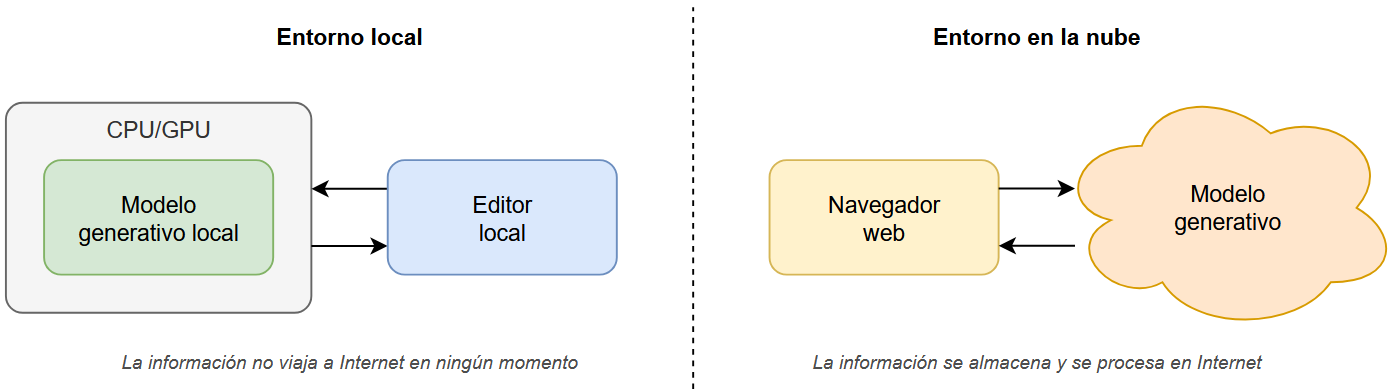
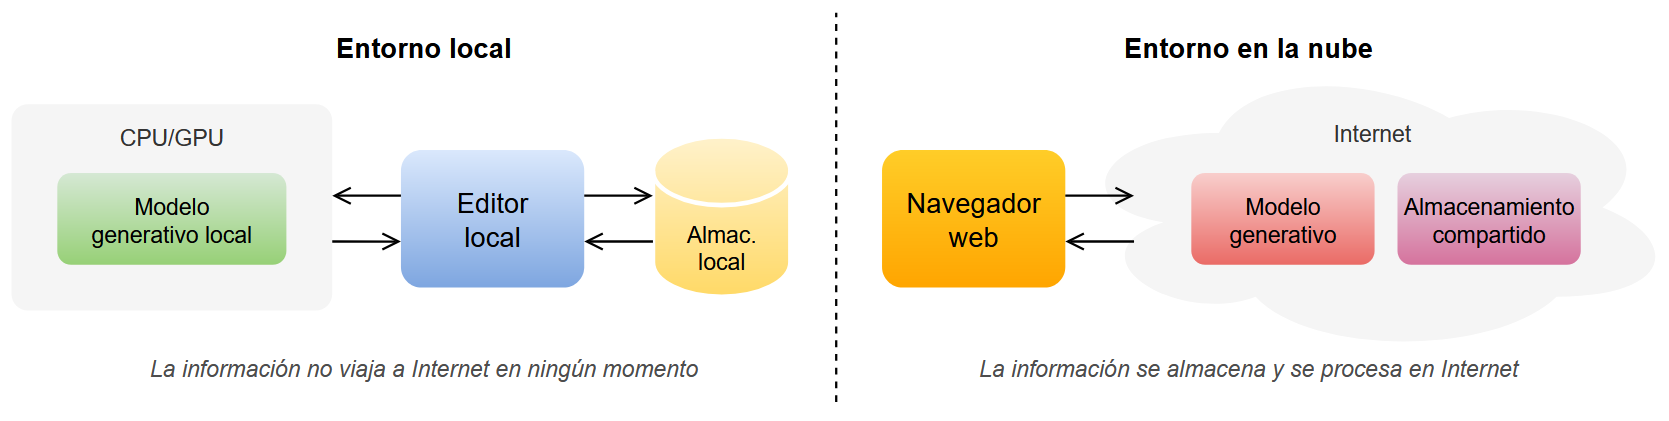
wiki

diff --git a/Wiki/x. Anexos.md b/Wiki/x. Anexos.md
@@ -2,9 +2,15 @@
 
 #### **Anexo I**: Documentación técnica de la solución
 
+![](./Pictures/Pasted-image-20250704163423.png)
+![](./Pictures/Pasted-image-20250704163453.png)
+![](./Pictures/Pasted-image-20250704163507.png)
+
 - Disponible en: https://gitlab.etsisi.upm.es/bj0666/powerpad/-/blob/main/Attachments/Anexo%20I%20-%20Documentaci%C3%B3n%20t%C3%A9cnica%20de%20la%20soluci%C3%B3n.pdf
 
 #### **Anexo II**: Documentación generada por código
+
+![](./Pictures/Pasted-image-20250704163302.png)
 
 - Documentación completa: https://gitlab.etsisi.upm.es/bj0666/powerpad/-/tree/main/Attachments/doxygen
 - Fichero ZIP: https://gitlab.etsisi.upm.es/bj0666/powerpad/-/blob/main/Attachments/doxygen.zip
@@ -12,10 +18,15 @@
 
 #### **Anexo III**: Código fuente
 
+![](./Pictures/Pasted-image-20250704162850.png)
+![](./Pictures/Pasted-image-20250704163044.png)
+
 - Dirección repositorio Git: https://gitlab.etsisi.upm.es/bj0666/powerpad.git
 - Rama `main` (principal): https://gitlab.etsisi.upm.es/bj0666/powerpad/-/tree/main/
 - Rama `next` (con ejemplos de pruebas unitarias y localización): https://gitlab.etsisi.upm.es/bj0666/powerpad/-/tree/next/
 #### **Anexo IV**: Instalador
+
+![](./Pictures/Captura-de-pantalla-2025-05-24-165123.png)
 
 - Fichero MSIX: https://gitlab.etsisi.upm.es/bj0666/powerpad/-/blob/main/Attachments/PowerPad.WinUI_1.0.20.0_x64.msix
 - Certificado autofirmado: https://gitlab.etsisi.upm.es/bj0666/powerpad/-/blob/main/Attachments/PowerPad.WinUI_TemporaryKey.pfx

diff --git a/Wiki/06. Detalle de la implementación.md b/Wiki/06. Detalle de la implementación.md
@@ -68,7 +68,7 @@ Este proyecto engloba todo el núcleo lógico de la aplicación, gestionando los
     - **Config**: Lógica para la gestión, almacenamiento y recuperación de la configuración de la aplicación.
     - **FileSystem**: Servicios para la manipulación del sistema de archivos interno de la aplicación, gestión de documentos, carpetas y su orden.
 
-![Figura 6.1. Diagrama de clases representando distintos elementos del área de IA del núcleo de PowerPad. Elaboración propia (notación libre).](./Pictures/arquitectura-detalle.drawio.png)
+![Figura 6.1. Diagrama de clases (notación libre) representando distintos elementos del área de IA del núcleo de PowerPad. Elaboración propia.](./Pictures/arquitectura-detalle.drawio.png)
 
 ### 6.1.2. PowerPad.WinUI
 

diff --git a/Wiki/Review/Revisión 26-06.md b/Wiki/Review/Revisión 26-06.md
@@ -1,7 +1,7 @@
 
 # 1. Introducción
 
-- **Retocar figura 1.2.**
+- ~~**Retocar figura 1.2.**~~
 
 # 2. Estado del arte y fundamentos teóricos
 
@@ -55,10 +55,10 @@
 - ~~Revisar: Figura 2.11 Captura de distintos interfaces de aplicaciones conversacionales.~~
 - ~~Figura 5.24. Esquema de la información enviada al modelo de IA generativa~~
 - ~~Chatbot Arena (INCLUIR CITA ENLACE)~~
-- Preparar anexos
-	- Documentación Técnica
-	- Clonar repositorios a GitLab
-	- Subir instalador
-	- Subir documentación generada
+- ~~Preparar anexos~~
+	- ~~Documentación Técnica~~
+	- ~~Clonar repositorios a GitLab~~
+	- ~~Subir instalador~~
+	- ~~Subir documentación generada~~
 - ~~Portada definitiva~~
 - ~~Encabezado de página~~

diff --git a/Wiki/PanDoc/Preparación Memoria.md b/Wiki/PanDoc/Preparación Memoria.md
@@ -15,6 +15,7 @@
 **Pasos finales**
 
 1. Incluir anexos
+	1. Revisar formato miniaturas anexos
 2. Actualizar número de páginas en índice (cuidado con numeración primeras secciones)
 3. Actualizar número de páginas en índice de figuras
 
